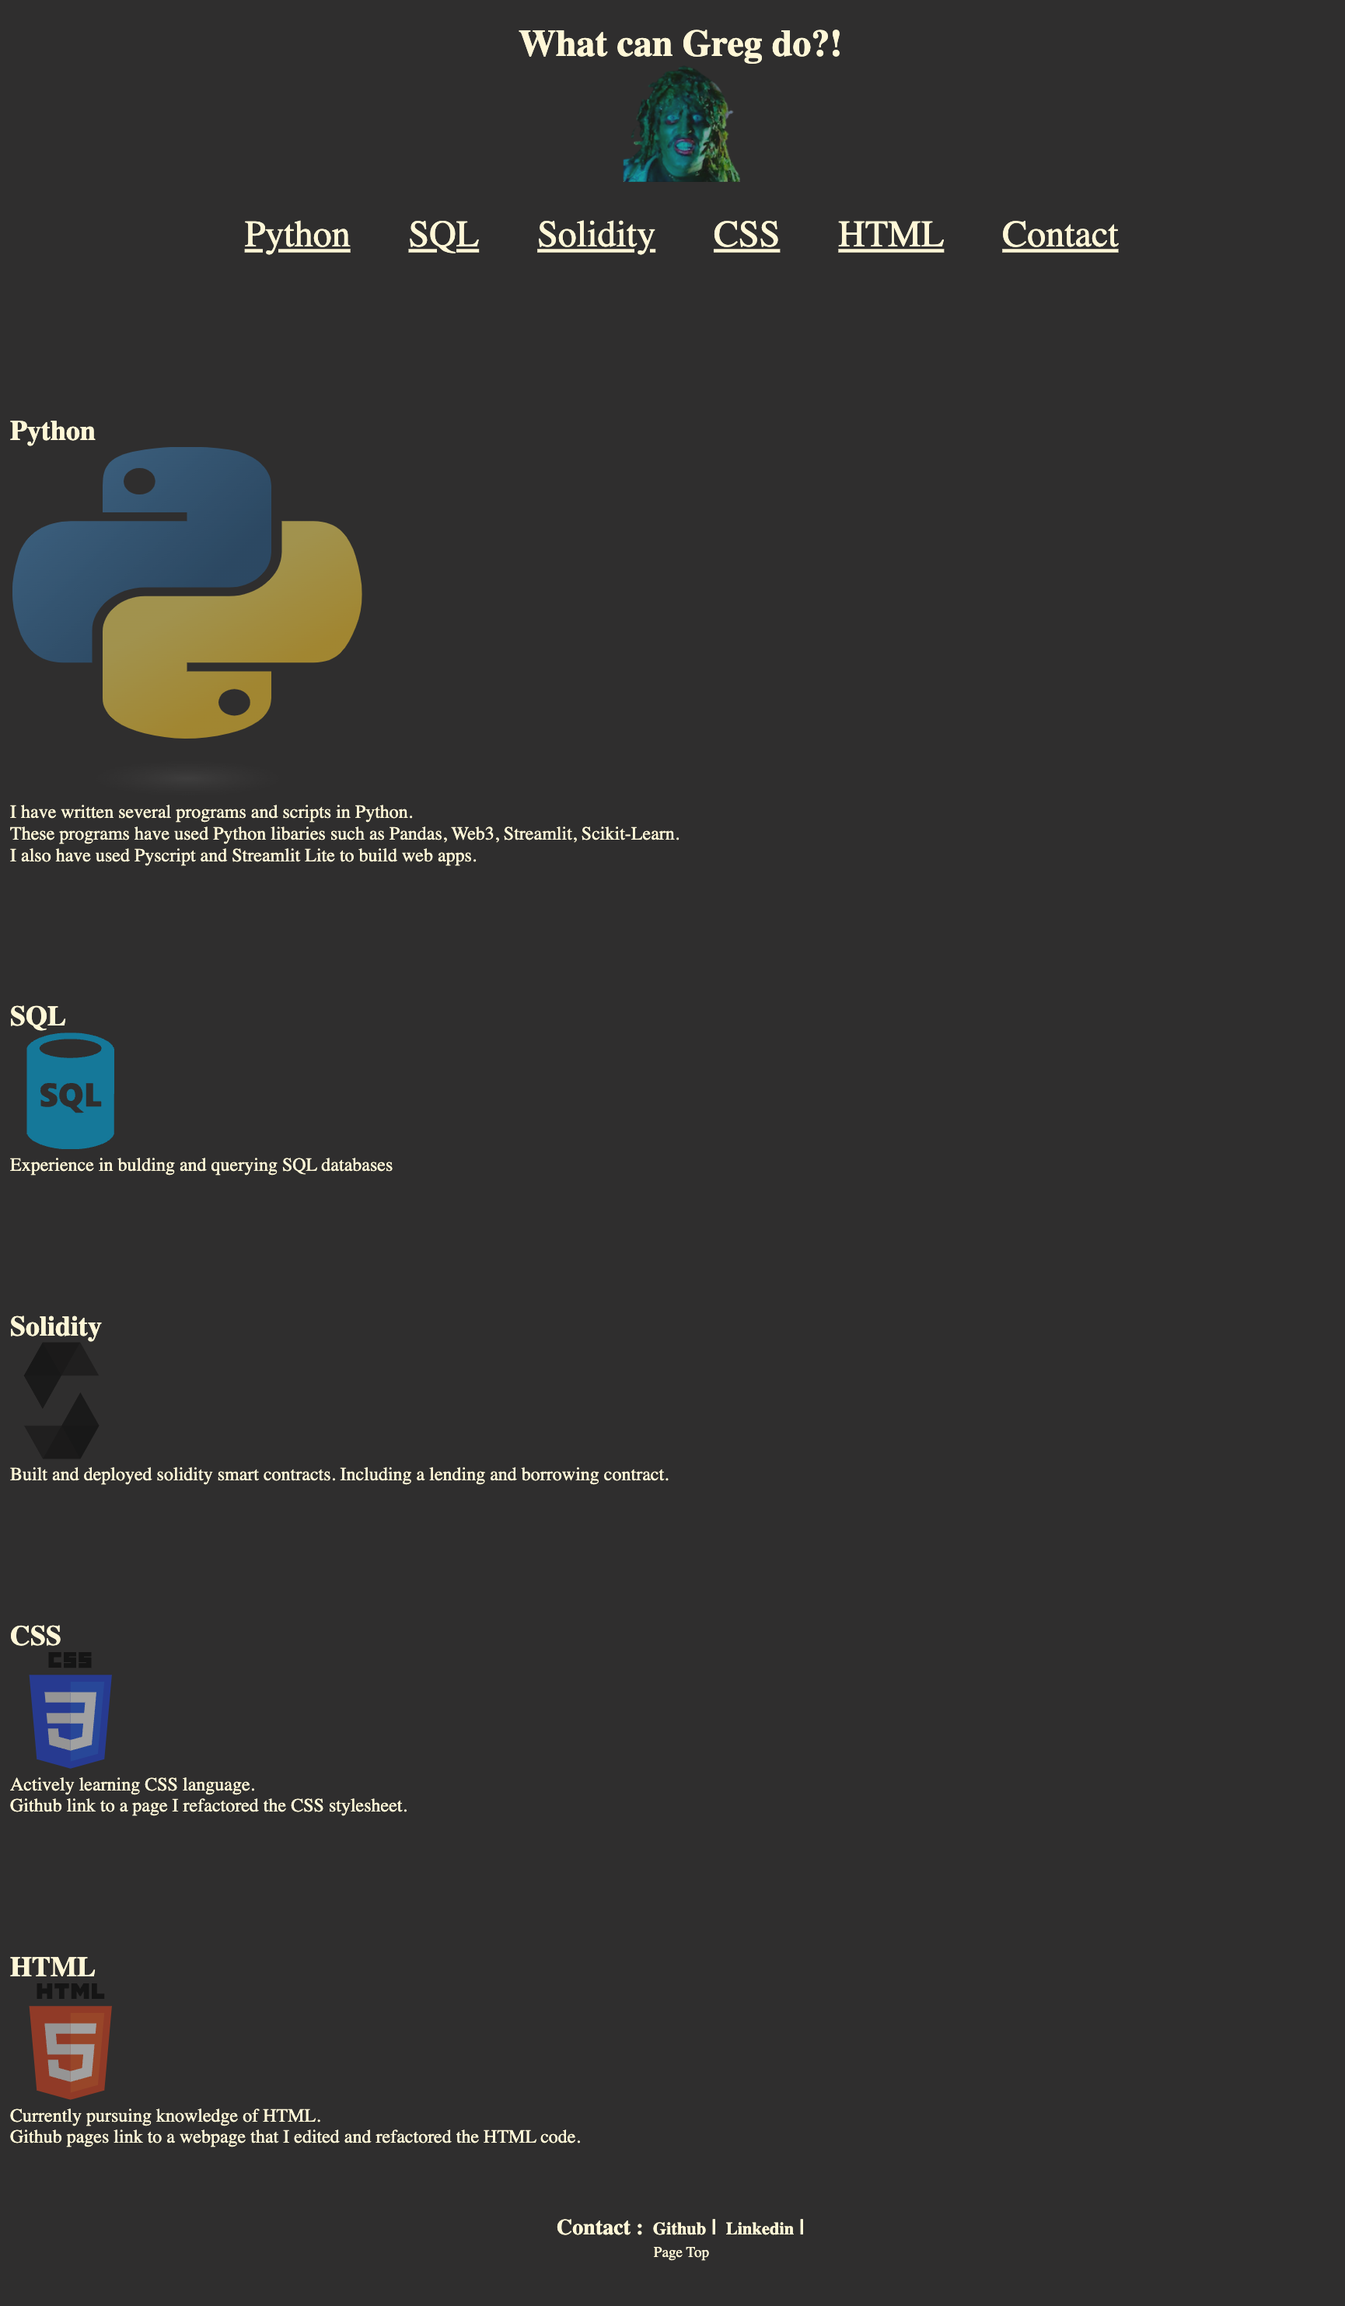
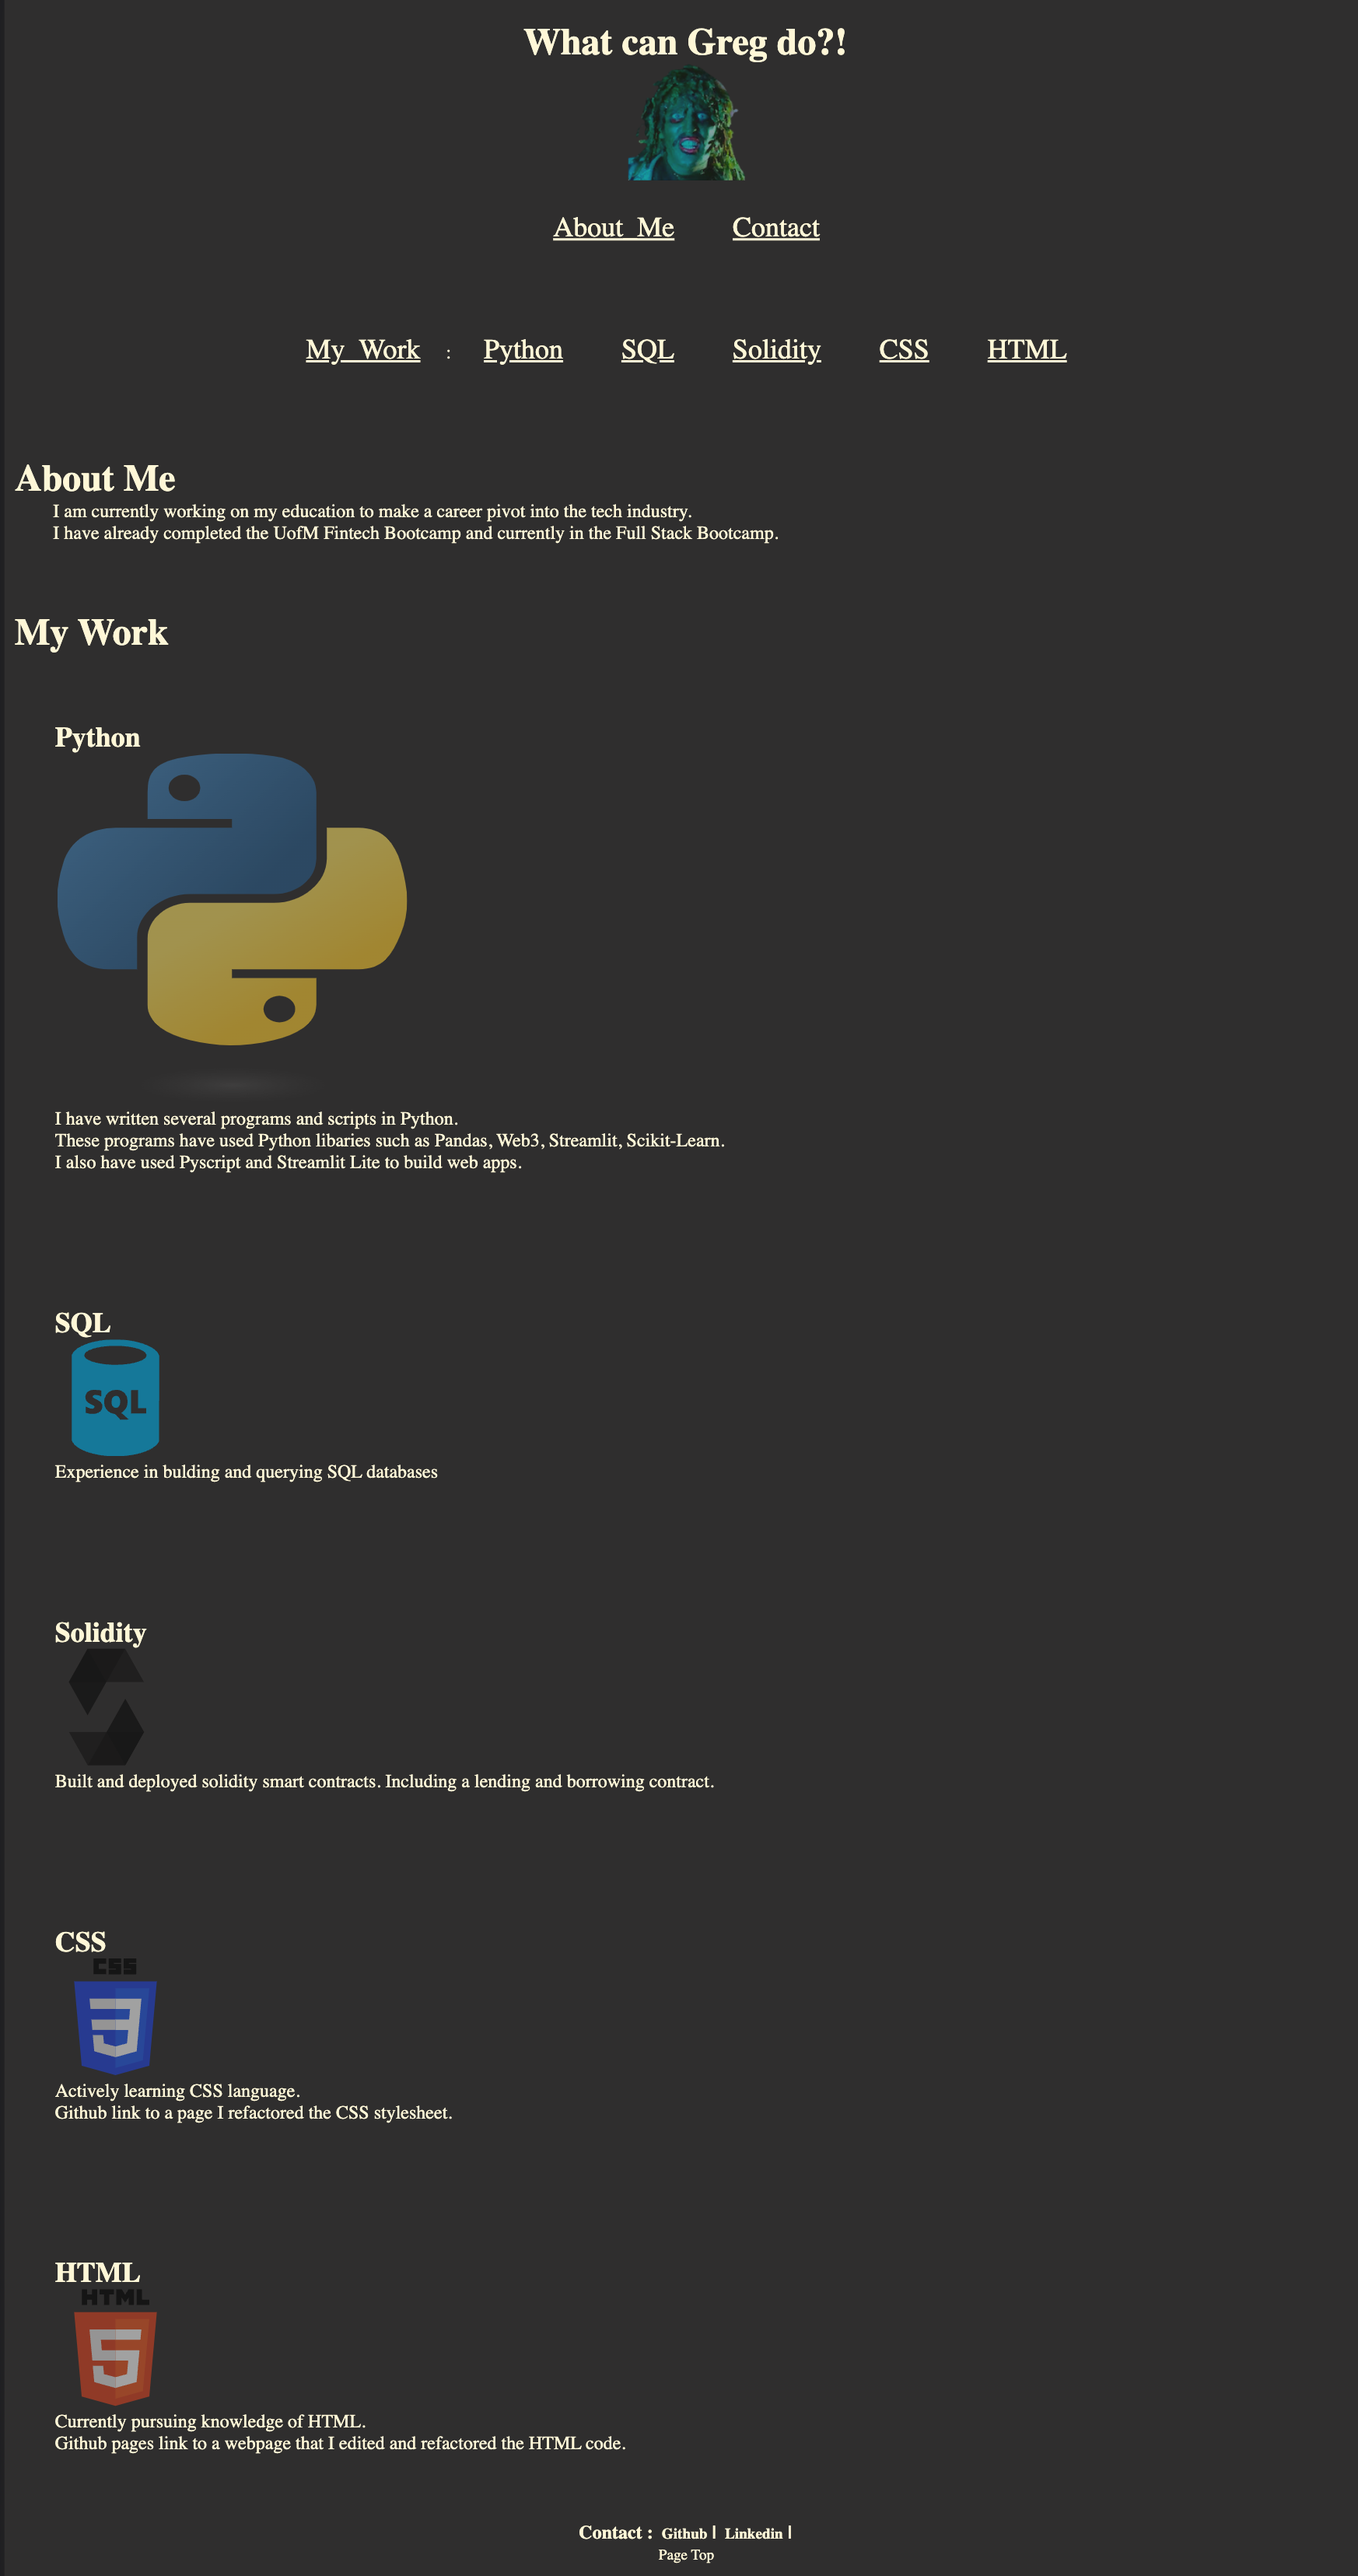
add about me & my work sections, updt readme & css

diff --git a/index.html b/index.html
@@ -16,84 +16,93 @@
         </a>
         <ul>
             <!-- Links for page navigation -->
-            <li><a href="about_me">About_Me</a></li>
-            <li><a href="#python_h2">Python</a></li>
-            <li><a href="#sql_h2">SQL</a></li>
-            <li><a href="#solidity_h2"_h2>Solidity</a></li>
-            <li><a href="#css_h2">CSS</a></li>
-            <li><a href="#html_h2">HTML</a></li>
-            <li><a href="#contact_h3">Contact</a></li>
+            <li><a href="#about_me">About_Me</a></li>
+            <li><a href="#contact_h4">Contact</a></li><br>
+            <li><a href="#work">My_Work</a></li>:
+            <li><a href="#python_h3">Python</a></li>
+            <li><a href="#sql_h3">SQL</a></li>
+            <li><a href="#solidity_h3">Solidity</a></li>
+            <li><a href="#css_h3">CSS</a></li>
+            <li><a href="#html_h3">HTML</a></li>
+            
         </ul>
     </header>
     <!-- Main Content of page -->
     <main>
         <!-- Python artice -->
         <article>
-            <h2>About Me</h2>
-        </article>
-        <article class="article">
-            <h2 id="python_h2">Python</h2>
-            <!-- Python logo image with link to Github -->
-            <a href="https://github.com/Olegreg762/FintechBootcamp/tree/main/python_homework/PyBank">
-            <img id="python_logo"  src="./resources/images/python-logo-only.svg" alt="python logo">
-            </a>            
-            <p>
-            I have written several programs and scripts in Python.<br>
-            These programs have used Python libaries such as Pandas, Web3, Streamlit, Scikit-Learn.<br>
-            I also have used Pyscript and Streamlit Lite to build web apps.
-            </p>            
-        </article>
-        <!-- SQL article -->
-        <article class="article">
-            <h2 id="sql_h2">SQL</h2>
-            <!-- SQL logo imagee with a Github link -->
-            <a href="https://github.com/Olegreg762/FintechBootcamp/tree/main/SQL_homework">
-            <img src="./resources/images/sql-database-generic.svg" alt="sql logo">
-            </a>
-            <p>
-            Experience in bulding and querying SQL databases
+            <h2 id="about_me">About Me</h2>
+            <p id="about_p">
+            I am currently working on my education to make a career pivot into the tech industry.<br>
+            I have already completed the UofM Fintech Bootcamp and currently in the Full Stack Bootcamp.<br>
             </p>
         </article>
-        <!-- Solidity article -->
-        <article class="article">
-            <!-- Solidity logo image with Github link -->
-            <h2 id="solidity_h2">Solidity</h2>
-            <a href="https://github.com/Olegreg762/Group_Project_3">
-            <img id="solidity_logo" src="./resources/images/771px-Solidity_logo.svg.png" alt="solidity logo">
-            </a>
-            <p>
-            Built and deployed solidity smart contracts. 
-            Including a lending and borrowing contract.
-            </p>
-        </article>
-        <!-- CSS article -->
-        <article class="article">
-            <h2 id="css_h2">CSS</h2>
-            <!-- CSS logo image with Github link -->
-            <a href="https://olegreg762.github.io/01-Challenge-Code-Refactor/">
-            <img src="./resources/images/CSS3_logo_and_wordmark.svg" alt="css logo"> 
-            </a>           
-            <p>
-            Actively learning CSS language.<br>
-            Github link to a page I refactored the CSS stylesheet.
-            </p>             
-        </article>
-        <!-- HTML article -->
-        <article class="article">
-            <h2 id="html_h2">HTML</h2> 
-            <!-- HTML logo imgae with Github link -->
-            <a href="https://olegreg762.github.io/01-Challenge-Code-Refactor/">      
-            <img src="./resources/images/HTML5_logo_and_wordmark.svg" alt="html logo">
-            </a> 
-            <p>
-            Currently pursuing knowledge of HTML.<br>
-            Github pages link to a webpage that I edited and refactored the HTML code.
-            </p>
-        </article>
+        <section>
+            <h2 id="work">My Work</h2>
+            <article class="article">
+                <h3 id="python_h3">Python</h3>
+                <!-- Python logo image with link to Github -->
+                <a href="https://github.com/Olegreg762/FintechBootcamp/tree/main/python_homework/PyBank">
+                <img id="python_logo"  src="./resources/images/python-logo-only.svg" alt="python logo">
+                </a>            
+                <p>
+                I have written several programs and scripts in Python.<br>
+                These programs have used Python libaries such as Pandas, Web3, Streamlit, Scikit-Learn.<br>
+                I also have used Pyscript and Streamlit Lite to build web apps.
+                </p>            
+            </article>
+            <!-- SQL article -->
+            <article class="article">
+                <h3 id="sql_h3">SQL</h3>
+                <!-- SQL logo imagee with a Github link -->
+                <a href="https://github.com/Olegreg762/FintechBootcamp/tree/main/SQL_homework">
+                <img src="./resources/images/sql-database-generic.svg" alt="sql logo">
+                </a>
+                <p>
+                Experience in bulding and querying SQL databases
+                </p>
+            </article>
+            <!-- Solidity article -->
+            <article class="article">
+                <!-- Solidity logo image with Github link -->
+                <h3 id="solidity_h3">Solidity</h3>
+                <a href="https://github.com/Olegreg762/Group_Project_3">
+                <img id="solidity_logo" src="./resources/images/771px-Solidity_logo.svg.png" alt="solidity logo">
+                </a>
+                <p>
+                Built and deployed solidity smart contracts. 
+                Including a lending and borrowing contract.
+                </p>
+            </article>
+            <!-- CSS article -->
+            <article class="article">
+                <h3 id="css_h3">CSS</h3>
+                <!-- CSS logo image with Github link -->
+                <a href="https://olegreg762.github.io/01-Challenge-Code-Refactor/">
+                <img src="./resources/images/CSS3_logo_and_wordmark.svg" alt="css logo"> 
+                </a>           
+                <p>
+                Actively learning CSS language.<br>
+                Github link to a page I refactored the CSS stylesheet.
+                </p>             
+            </article>
+            <!-- HTML article -->
+            <article class="article">
+                <h3 id="html_h3">HTML</h3> 
+                <!-- HTML logo imgae with Github link -->
+                <a href="https://olegreg762.github.io/01-Challenge-Code-Refactor/">      
+                <img src="./resources/images/HTML5_logo_and_wordmark.svg" alt="html logo">
+                </a> 
+                <p>
+                Currently pursuing knowledge of HTML.<br>
+                Github pages link to a webpage that I edited and refactored the HTML code.
+                </p>
+            </article>
+        </section>
     </main>
     <!-- Footer of page -->
     <footer>
-        <h3 id="contact_h3">Contact : 
+        <h4 id="contact_h4">Contact : 
             <!-- Span inside footer with Github link -->
             <span><a href="https://github.com/Olegreg762/">Github</a></span>
             <!-- Sperator for spans -->
@@ -102,7 +111,7 @@
             <span><a href="https://www.linkedin.com/in/greg-stevenson-422931a9/">Linkedin</a></span>
             <!-- Sperator for spans -->
             |
-        </h3>
+        </h4>
          <span> <a href="#top">Page Top</a> </span>      
     </footer>
 </body>

diff --git a/resources/css/style.css b/resources/css/style.css
@@ -58,6 +58,24 @@ header ul li{
     
     
 }
+
+/* Styling for the h2 header */
+h2{
+    font-size: xx-large;
+}
+/* Applies padding to the top of the work header */
+#work{
+    padding-top: 5%;
+}
+/* Sets the margin on the about paragrap */
+#about_p{
+    margin-left: 3%;
+}
+/* Sets font size for the h3 header */
+h3{
+    font-size: x-large;
+}
+
 /* Styling for a */
 a{
     justify-content: center;
@@ -73,6 +91,7 @@ a:hover{
 .article {
  padding-top: 5%;
  padding-bottom: 5%;
+ margin-left: 3%;
 }
 /* Footer styling */
 footer{

diff --git a/README.md b/README.md
@@ -1,8 +1,9 @@
 # Portfolio
  
 In this repo I made a web site that portrays some of the skills I have acquired.<br>
+During this time that I am continuing my education to pivot my career into tech.<br>
 
-i have linked both my github and [Linkedin]("https://www.linkedin.com/in/greg-stevenson-422931a9/") profiled on the page
+I have linked both my github and [Linkedin]("https://www.linkedin.com/in/greg-stevenson-422931a9/") profiled on the page
 
 [![screenshot](./resources/images/Screenshot.png)](https://olegreg762.github.io/Full_Stack_Portfolio/
 )
